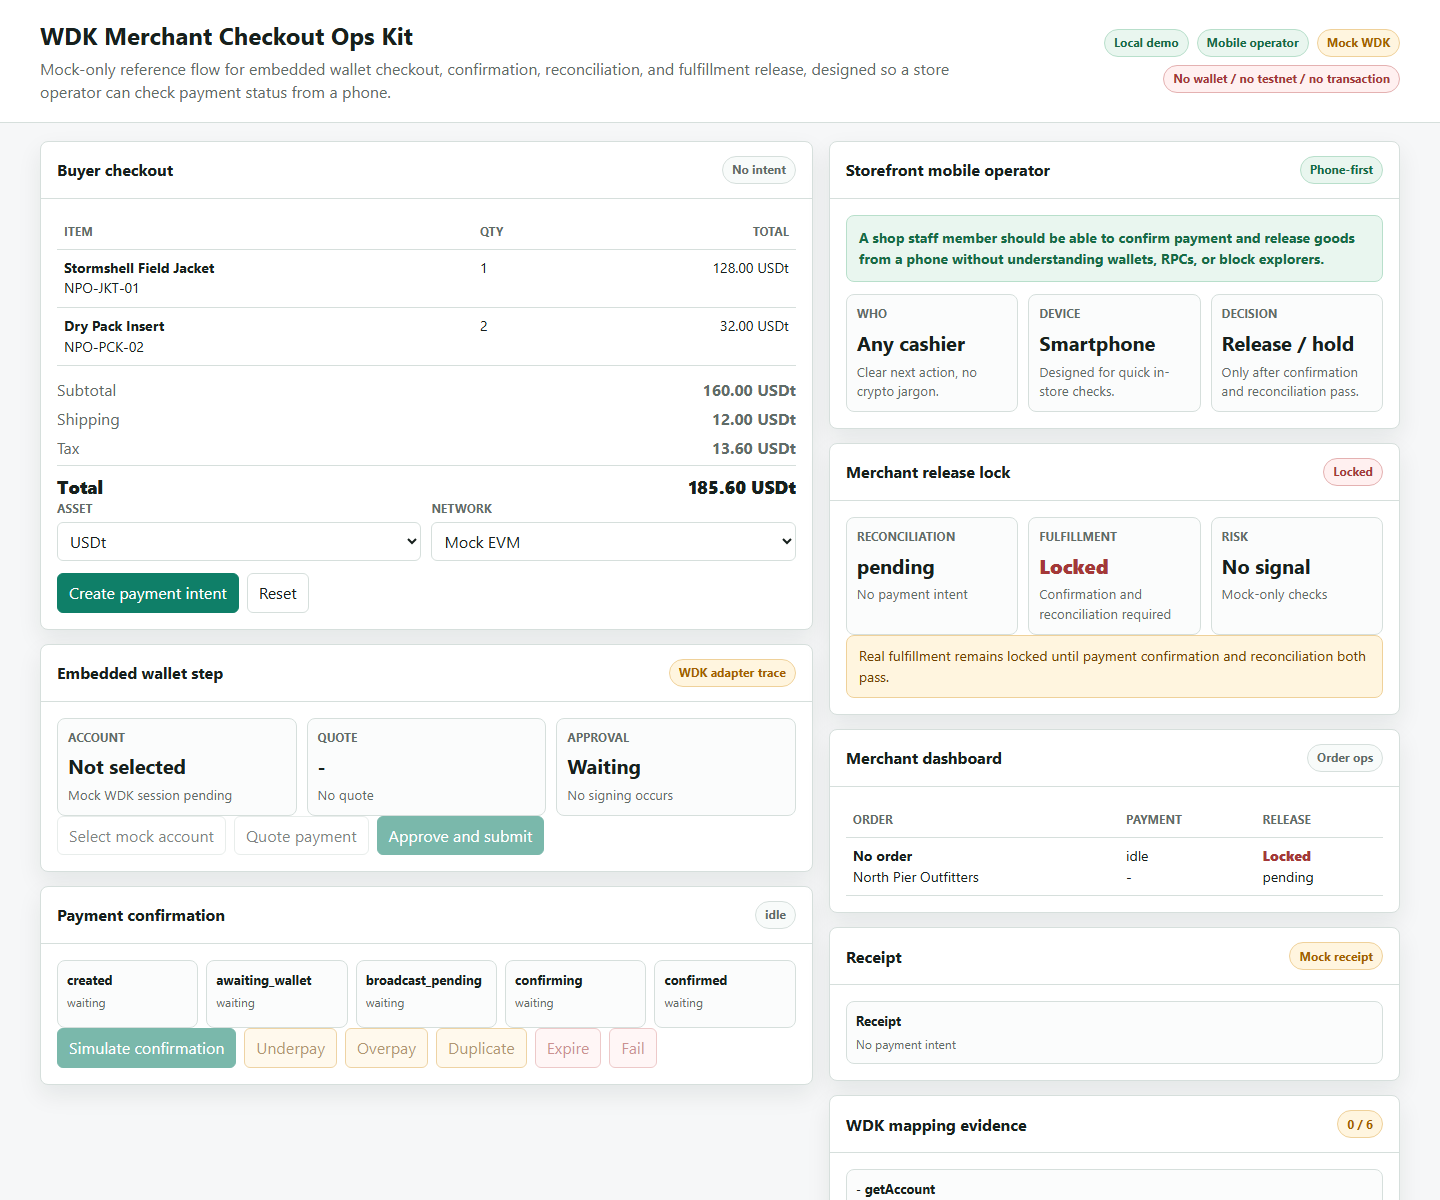
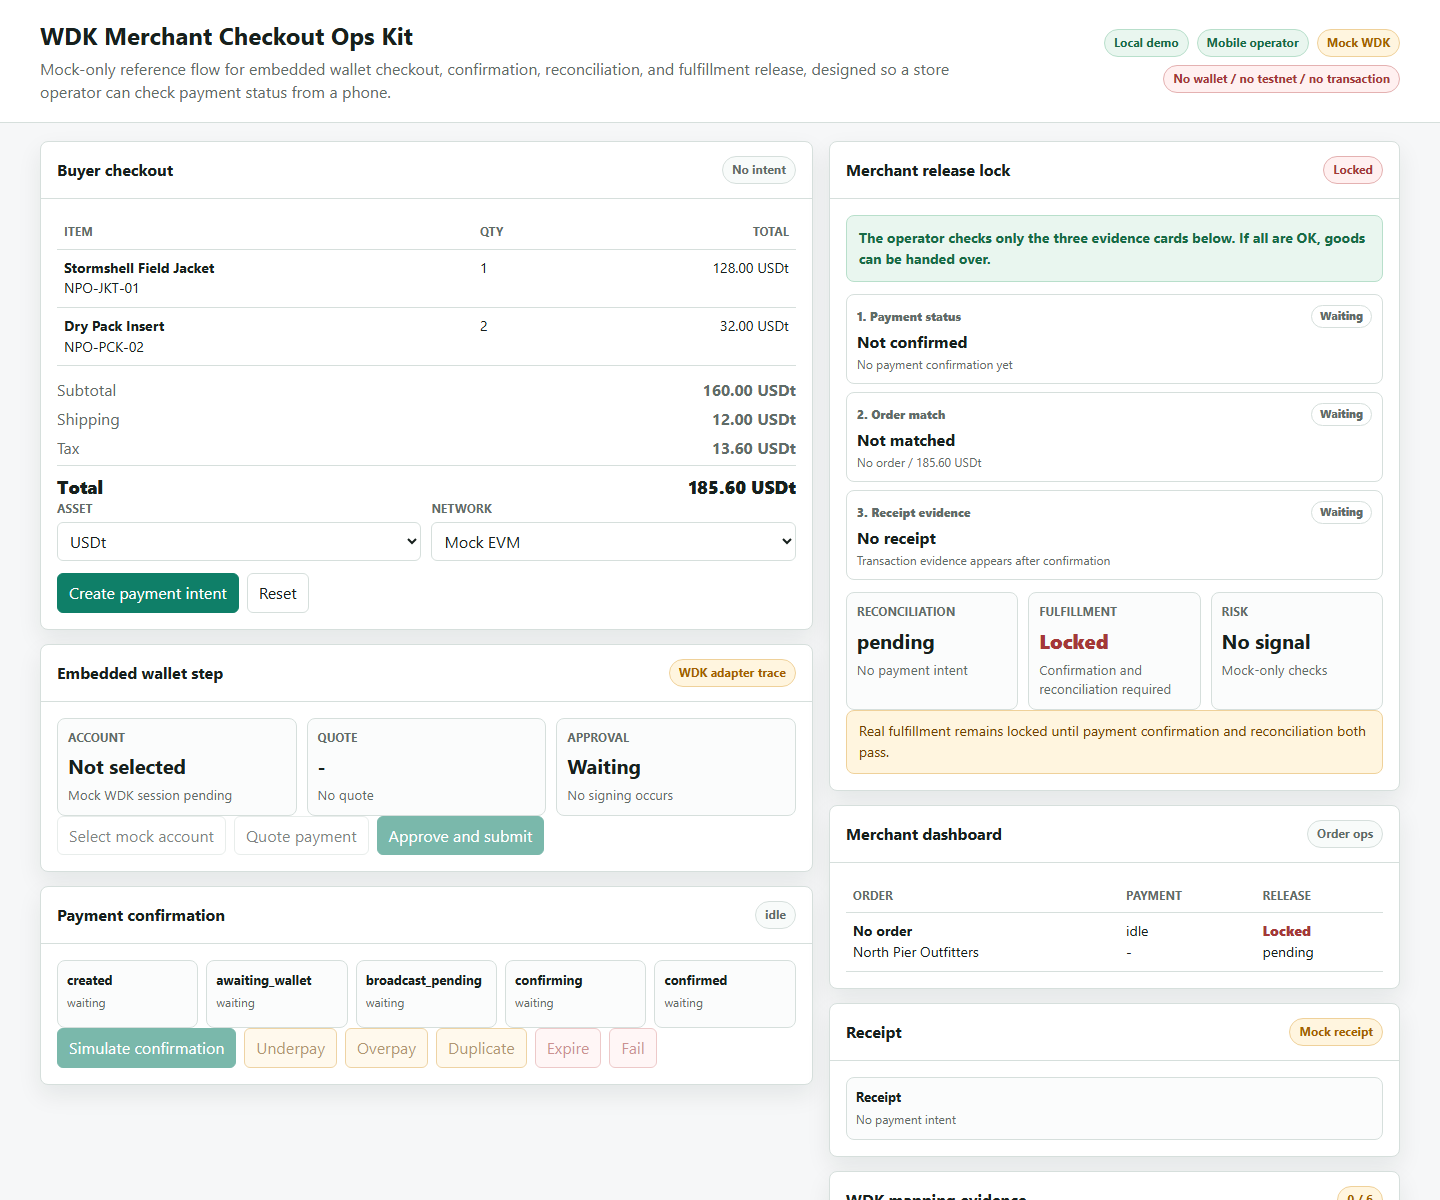
Clarify release evidence cards

diff --git a/styles.css b/styles.css
@@ -418,10 +418,6 @@ button:disabled {
   margin-bottom: 12px;
 }
 
-.operator-grid .metric strong {
-  font-size: 20px;
-}
-
 .release-ready {
   color: var(--ok);
   font-weight: 800;
@@ -430,6 +426,80 @@ button:disabled {
 .release-blocked {
   color: var(--danger);
   font-weight: 800;
+}
+
+.release-evidence {
+  display: grid;
+  gap: 8px;
+  margin-bottom: 12px;
+}
+
+.evidence-card {
+  border: 1px solid var(--line);
+  border-radius: 8px;
+  background: #fff;
+  padding: 10px;
+}
+
+.evidence-head {
+  display: flex;
+  align-items: center;
+  justify-content: space-between;
+  gap: 8px;
+}
+
+.evidence-head span {
+  color: var(--muted);
+  font-size: 12px;
+  font-weight: 850;
+}
+
+.evidence-head em {
+  min-width: 54px;
+  border: 1px solid var(--line);
+  border-radius: 999px;
+  padding: 2px 8px;
+  color: var(--muted);
+  font-size: 11px;
+  font-style: normal;
+  font-weight: 850;
+  text-align: center;
+}
+
+.evidence-card strong {
+  display: block;
+  margin-top: 4px;
+  font-size: 16px;
+  line-height: 1.25;
+}
+
+.evidence-card small {
+  display: block;
+  margin-top: 4px;
+  color: var(--muted);
+  font-size: 12px;
+}
+
+.evidence-card.ok {
+  border-color: #b8dfcb;
+  background: var(--ok-bg);
+}
+
+.evidence-card.ok .evidence-head em {
+  border-color: #42a373;
+  background: #fff;
+  color: var(--ok);
+}
+
+.evidence-card.review {
+  border-color: #e3b1b1;
+  background: var(--danger-bg);
+}
+
+.evidence-card.review .evidence-head em {
+  border-color: #c75656;
+  background: #fff;
+  color: var(--danger);
 }
 
 .ja-demo {

diff --git a/index.html b/index.html
@@ -120,39 +120,39 @@
       <section class="column">
         <article class="panel">
           <div class="panel-header">
-            <h2>Storefront mobile operator</h2>
-            <span class="pill ok">Phone-first</span>
-          </div>
-          <div class="panel-body">
-            <div class="operator-note">
-              A shop staff member should be able to confirm payment and release goods from a phone without understanding wallets, RPCs, or block explorers.
-            </div>
-            <div class="summary-grid operator-grid">
-              <div class="metric">
-                <span>Who</span>
-                <strong>Any cashier</strong>
-                <small>Clear next action, no crypto jargon.</small>
-              </div>
-              <div class="metric">
-                <span>Device</span>
-                <strong>Smartphone</strong>
-                <small>Designed for quick in-store checks.</small>
-              </div>
-              <div class="metric">
-                <span>Decision</span>
-                <strong>Release / hold</strong>
-                <small>Only after confirmation and reconciliation pass.</small>
-              </div>
-            </div>
-          </div>
-        </article>
-
-        <article class="panel">
-          <div class="panel-header">
             <h2>Merchant release lock</h2>
             <span class="pill" id="release-pill">Locked</span>
           </div>
           <div class="panel-body">
+            <div class="operator-note">
+              The operator checks only the three evidence cards below. If all are OK, goods can be handed over.
+            </div>
+            <div class="release-evidence" aria-label="Release evidence checklist">
+              <div class="evidence-card pending" id="evidence-payment">
+                <div class="evidence-head">
+                  <span>1. Payment status</span>
+                  <em id="evidence-payment-badge">Waiting</em>
+                </div>
+                <strong id="evidence-payment-title">Not confirmed</strong>
+                <small id="evidence-payment-detail">No payment confirmation yet.</small>
+              </div>
+              <div class="evidence-card pending" id="evidence-match">
+                <div class="evidence-head">
+                  <span>2. Order match</span>
+                  <em id="evidence-match-badge">Waiting</em>
+                </div>
+                <strong id="evidence-match-title">Not matched</strong>
+                <small id="evidence-match-detail">Order ID and amount are not reconciled yet.</small>
+              </div>
+              <div class="evidence-card pending" id="evidence-receipt">
+                <div class="evidence-head">
+                  <span>3. Receipt evidence</span>
+                  <em id="evidence-receipt-badge">Waiting</em>
+                </div>
+                <strong id="evidence-receipt-title">No receipt</strong>
+                <small id="evidence-receipt-detail">Transaction evidence appears after confirmation.</small>
+              </div>
+            </div>
             <div class="summary-grid">
               <div class="metric">
                 <span>Reconciliation</span>

diff --git a/app.js b/app.js
@@ -66,6 +66,18 @@
     fulfillmentState: document.getElementById("fulfillment-state"),
     fulfillmentMeta: document.getElementById("fulfillment-meta"),
     releasePill: document.getElementById("release-pill"),
+    evidencePayment: document.getElementById("evidence-payment"),
+    evidencePaymentBadge: document.getElementById("evidence-payment-badge"),
+    evidencePaymentTitle: document.getElementById("evidence-payment-title"),
+    evidencePaymentDetail: document.getElementById("evidence-payment-detail"),
+    evidenceMatch: document.getElementById("evidence-match"),
+    evidenceMatchBadge: document.getElementById("evidence-match-badge"),
+    evidenceMatchTitle: document.getElementById("evidence-match-title"),
+    evidenceMatchDetail: document.getElementById("evidence-match-detail"),
+    evidenceReceipt: document.getElementById("evidence-receipt"),
+    evidenceReceiptBadge: document.getElementById("evidence-receipt-badge"),
+    evidenceReceiptTitle: document.getElementById("evidence-receipt-title"),
+    evidenceReceiptDetail: document.getElementById("evidence-receipt-detail"),
     riskState: document.getElementById("risk-state"),
     riskMeta: document.getElementById("risk-meta"),
     orderRows: document.getElementById("order-rows"),
@@ -308,6 +320,48 @@
     dom.releasePill.className = app.releaseLocked ? "pill block" : "pill ok";
     dom.riskState.textContent = app.risk;
     dom.riskMeta.textContent = app.intent ? "Local-only risk signal" : "Mock-only checks";
+    renderReleaseEvidence();
+  }
+
+  function setEvidence(card, badge, titleNode, detailNode, title, detail, statusClass) {
+    card.className = `evidence-card ${statusClass}`;
+    badge.textContent = statusClass === "ok" ? "OK" : statusClass === "review" ? "Review" : "Waiting";
+    titleNode.textContent = title;
+    detailNode.textContent = detail;
+  }
+
+  function renderReleaseEvidence() {
+    const amount = app.intent ? formatMoney(app.intent.amount) : formatMoney(cartTotal());
+    const orderRef = app.intent ? `${app.intent.orderId} / ${amount}` : `No order / ${amount}`;
+    const terminalReview = app.intent && !stateOrder.includes(app.intent.state);
+    const confirmed = app.intent && app.intent.state === PAYMENT_STATES.CONFIRMED && app.confirmation?.status === PAYMENT_STATES.CONFIRMED;
+    const matched = confirmed && app.reconciliation === "matched";
+    const receipt = app.confirmation?.paymentHash || app.payment?.paymentHash;
+    const shortReceipt = receipt ? `${receipt.slice(0, 10)}...${receipt.slice(-6)}` : "No transaction evidence yet";
+
+    if (confirmed) {
+      setEvidence(dom.evidencePayment, dom.evidencePaymentBadge, dom.evidencePaymentTitle, dom.evidencePaymentDetail, "Confirmed", `${app.confirmation.confirmations} confirmations observed`, "ok");
+    } else if (terminalReview) {
+      setEvidence(dom.evidencePayment, dom.evidencePaymentBadge, dom.evidencePaymentTitle, dom.evidencePaymentDetail, "Needs review", `Payment state: ${app.intent.state}`, "review");
+    } else {
+      setEvidence(dom.evidencePayment, dom.evidencePaymentBadge, dom.evidencePaymentTitle, dom.evidencePaymentDetail, "Not confirmed", app.payment ? "Waiting for confirmation watcher" : "No payment confirmation yet", "pending");
+    }
+
+    if (matched) {
+      setEvidence(dom.evidenceMatch, dom.evidenceMatchBadge, dom.evidenceMatchTitle, dom.evidenceMatchDetail, "Order ID / amount match", orderRef, "ok");
+    } else if (terminalReview) {
+      setEvidence(dom.evidenceMatch, dom.evidenceMatchBadge, dom.evidenceMatchTitle, dom.evidenceMatchDetail, "Mismatch or exception", orderRef, "review");
+    } else {
+      setEvidence(dom.evidenceMatch, dom.evidenceMatchBadge, dom.evidenceMatchTitle, dom.evidenceMatchDetail, app.intent ? "Order visible" : "Not matched", orderRef, "pending");
+    }
+
+    if (confirmed && receipt) {
+      setEvidence(dom.evidenceReceipt, dom.evidenceReceiptBadge, dom.evidenceReceiptTitle, dom.evidenceReceiptDetail, "Receipt available", `tx: ${shortReceipt}`, "ok");
+    } else if (terminalReview) {
+      setEvidence(dom.evidenceReceipt, dom.evidenceReceiptBadge, dom.evidenceReceiptTitle, dom.evidenceReceiptDetail, "Receipt review", shortReceipt, "review");
+    } else {
+      setEvidence(dom.evidenceReceipt, dom.evidenceReceiptBadge, dom.evidenceReceiptTitle, dom.evidenceReceiptDetail, "No receipt", "Transaction evidence appears after confirmation", "pending");
+    }
   }
 
   function renderControls() {

diff --git a/tests/offline_guard.test.js b/tests/offline_guard.test.js
@@ -74,6 +74,9 @@ function testRequiredUiHooks() {
     "simulate-duplicate",
     "expire-intent",
     "fail-payment",
+    "evidence-payment",
+    "evidence-match",
+    "evidence-receipt",
     "release-pill",
     "mapping-count",
     "api-json"

diff --git a/README.md b/README.md
@@ -17,7 +17,7 @@ For the submission story, see `SUBMISSION_BRIEF.md`.
 
 ## Design Principle
 
-The project treats WDK adoption as an operator workflow, not just a developer integration. A small shop or in-person merchant should be able to check a payment from a smartphone, see a simple release/hold recommendation, and hand over goods only after payment confirmation and reconciliation pass. The interface intentionally avoids exposing staff to wallet internals, RPC details, or block explorer interpretation during normal use.
+The project treats WDK adoption as an operator workflow, not just a developer integration. A small shop or in-person merchant should be able to check a payment from a smartphone, see three simple evidence cards (payment status, order match, and receipt evidence), and hand over goods only when all three are OK. The interface intentionally avoids exposing staff to wallet internals, RPC details, or block explorer interpretation during normal use.
 
 ## Current Status
 

diff --git a/SUBMISSION_BRIEF.md b/SUBMISSION_BRIEF.md
@@ -18,7 +18,7 @@ Not just a crypto checkout button, but a merchant operations reference kit for p
 
 The project puts the merchant-side operating problem first: after a buyer approves a payment, the merchant still needs evidence, confirmation, reconciliation, anomaly handling, and a safe release decision before fulfilling the order.
 
-A secondary design principle is phone-first usability for real stores. The intended operator is not necessarily a crypto-native developer; it may be a cashier, store owner, or support staff member who needs a clear "confirmed and matched" signal before handing over goods.
+A secondary design principle is phone-first usability for real stores. The intended operator is not necessarily a crypto-native developer; it may be a cashier, store owner, or support staff member who checks three concrete evidence cards: payment status, order ID/amount match, and receipt evidence. Goods are handed over only when all three are OK.
 
 ## WDK Mapping
 